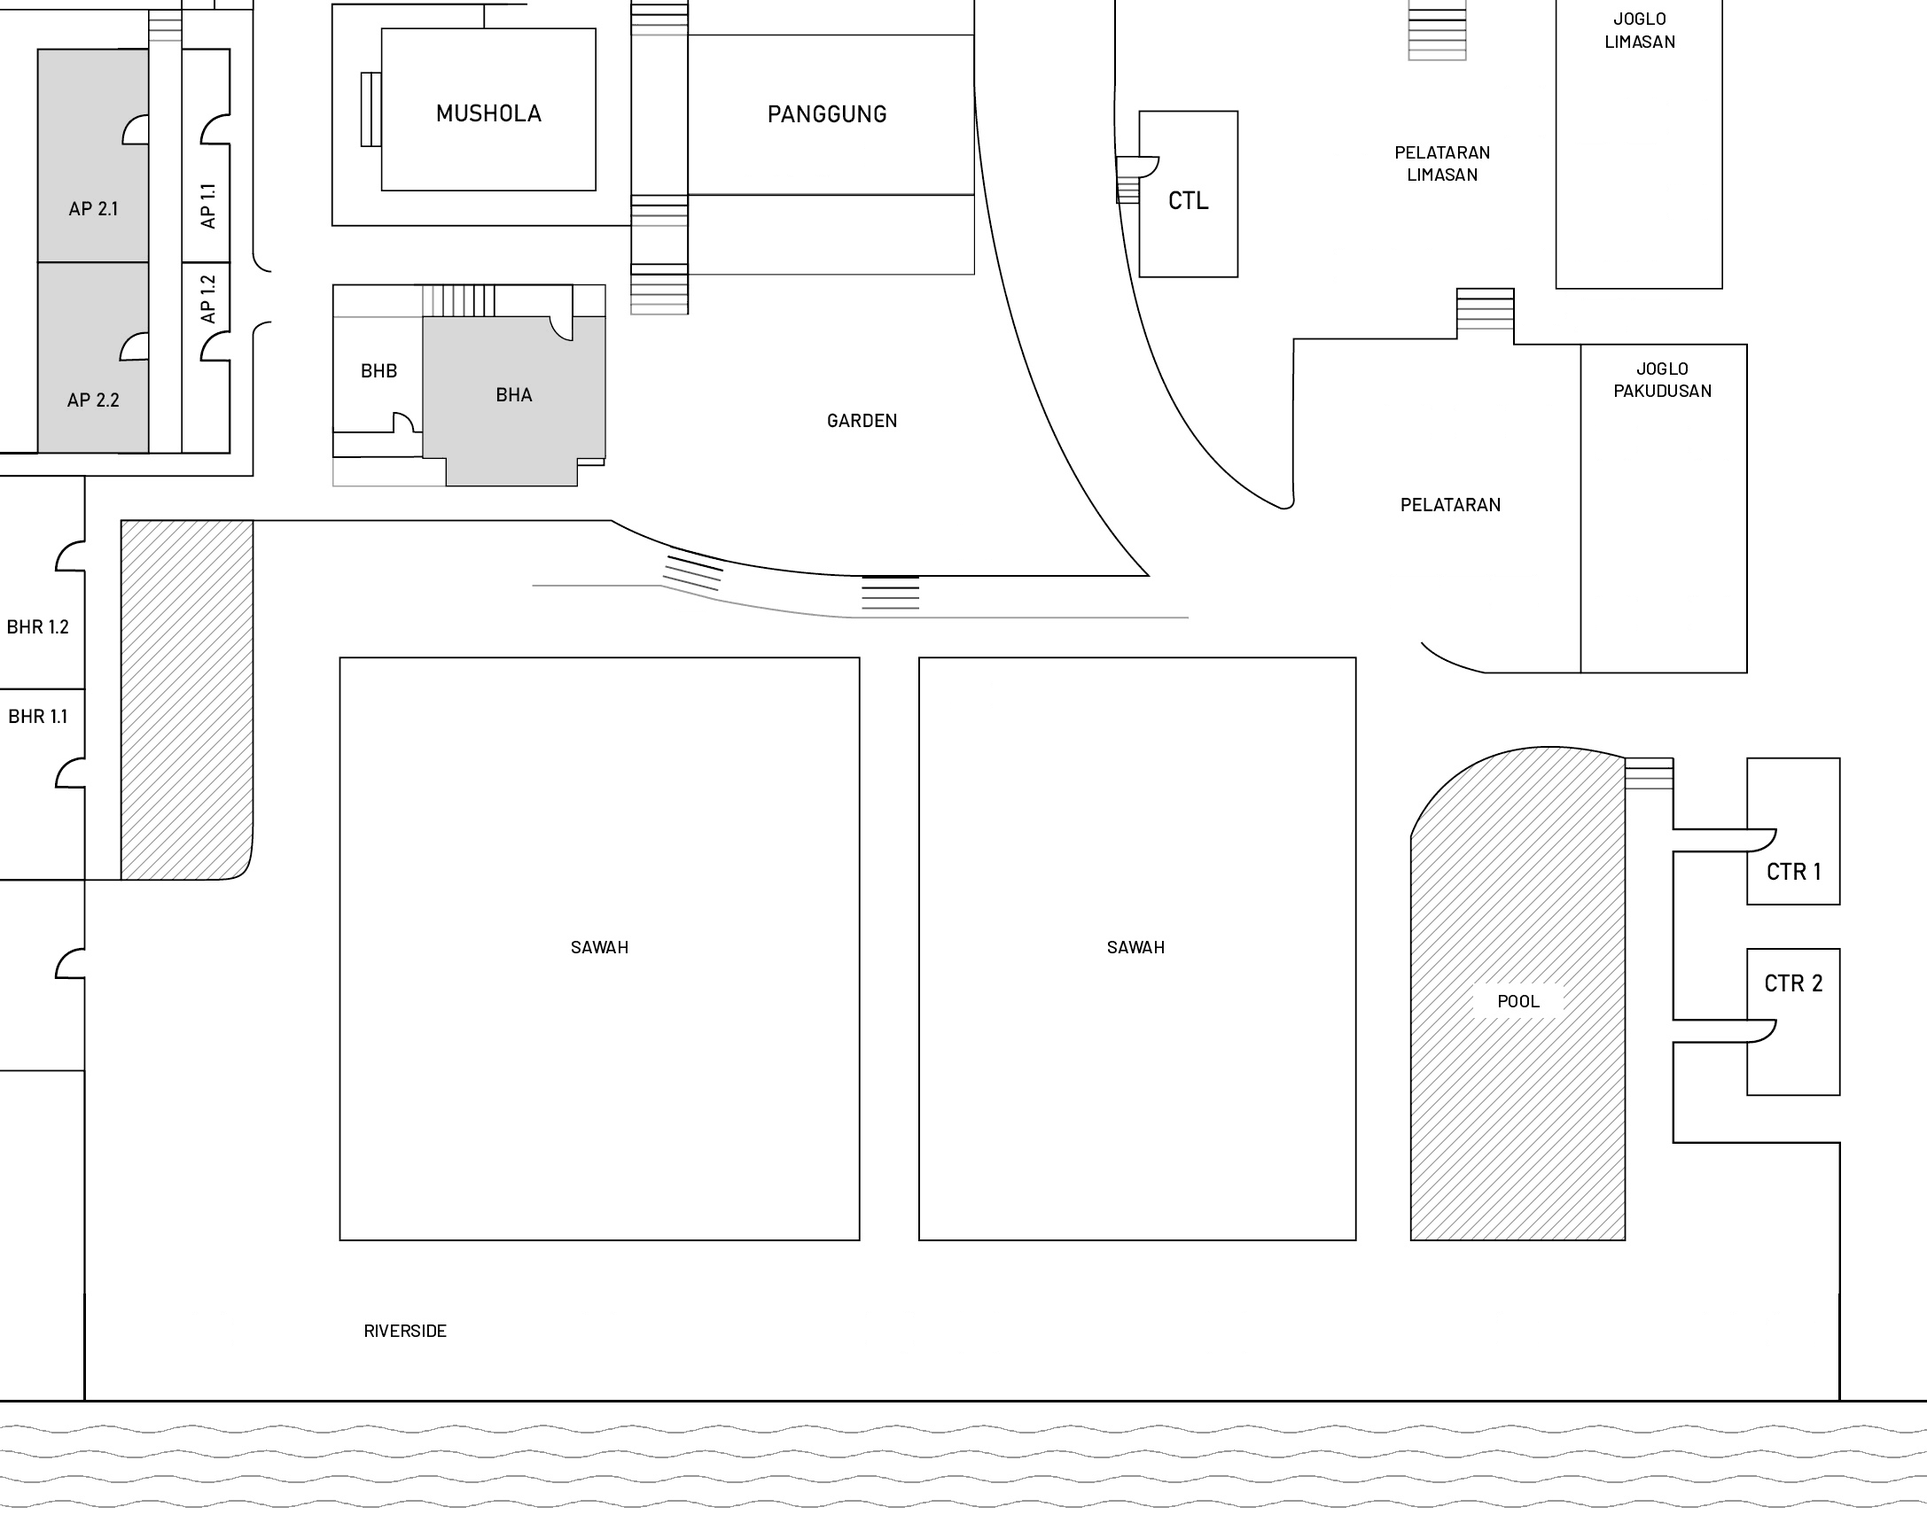
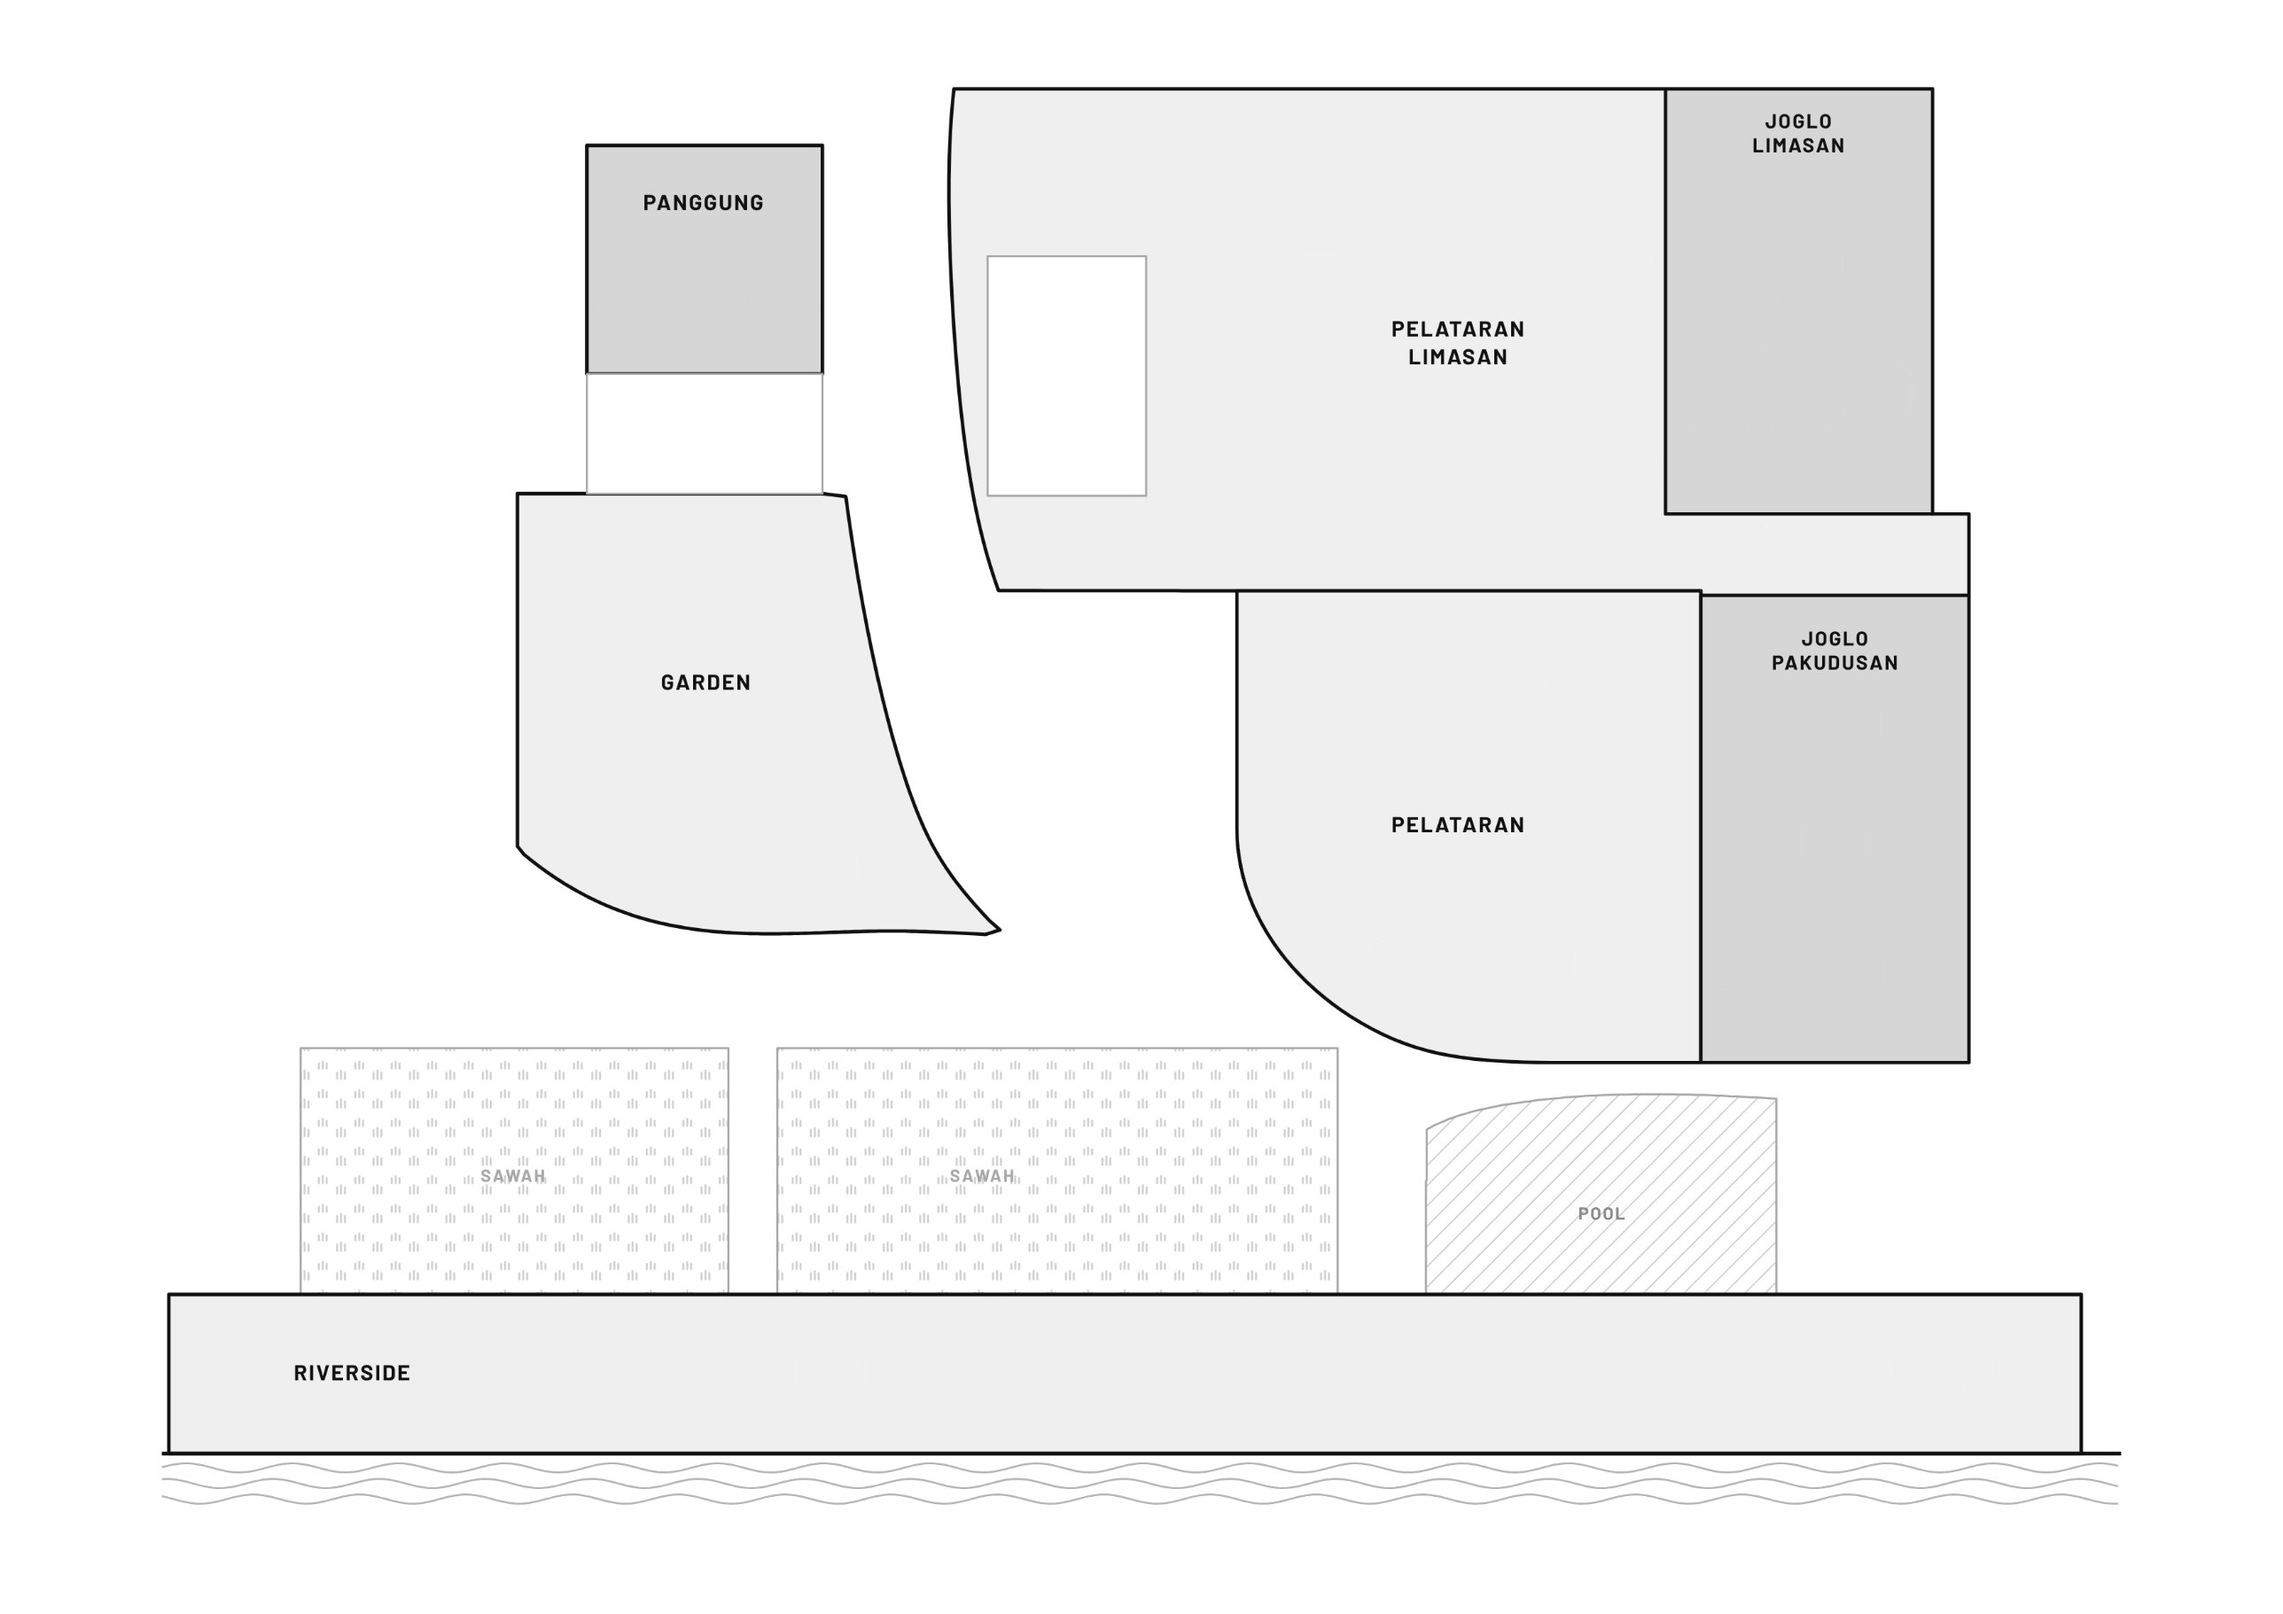
Kaly Ops 2.14: denah baru Kaly Eatery (Nov 2026)
- Gambar denah baru tanpa kotak meja; 42 meja di posisi sesuai gambar
- Data master dining_tables ikut diperbarui

Claude-Session: https://claude.ai/code/session_015AWikZGjyGYkLWwhzB7SvX

diff --git a/app/js/views/denah.js b/app/js/views/denah.js
@@ -9,7 +9,7 @@ import { rerender, go, can } from '../app.js';
 import { openFromDenah } from './pos.js';
 import { moveDialog, clearTable, bookNowDialog } from './table-actions.js';
 
-const IMG = { src: 'assets/denah.png', w: 2174, h: 1710 };
+const IMG = { src: 'assets/denah.png?v=214', w: 2576, h: 1821 };  // 2.14: denah baru (Nov 2026)
 const AR = IMG.w / IMG.h;
 const MAXW = 4200;
 const ui = { sel: null, edit: false, w: null, sx: null, sy: null, filter: 'all', area: 'all' };

diff --git a/app/js/store.js b/app/js/store.js
@@ -3,7 +3,7 @@
 import * as C from './cloud.js';
 import { subscribe as sub, emit } from './bus.js';
 
-export const APP_VERSION = '2.13';
+export const APP_VERSION = '2.14';
 const TERMINAL = 'kaly.terminal';
 
 export const getDb = () => (C.me ? C.db : C.pub.db || C.db);
